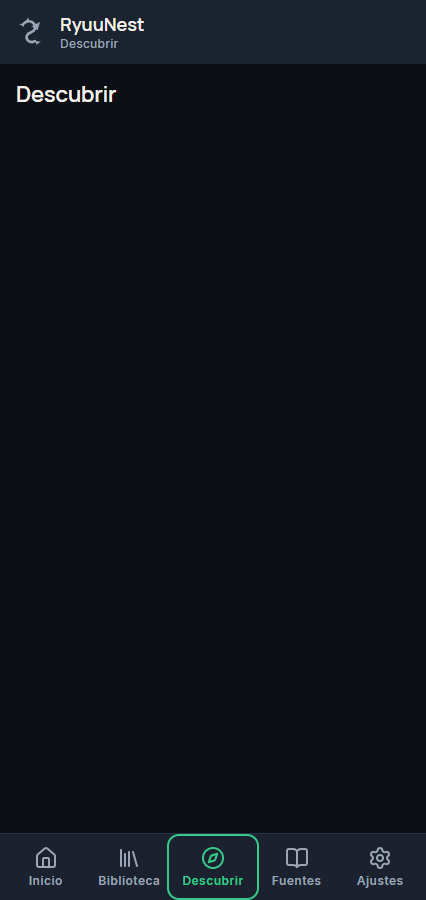
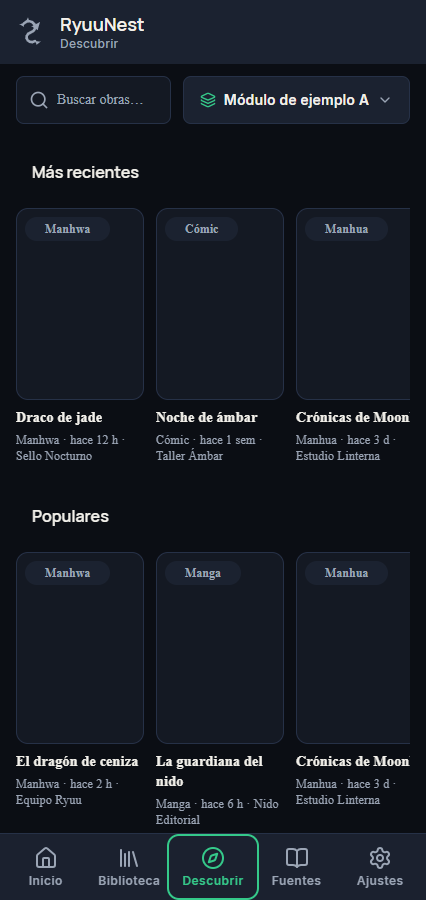
docs: convenio de marcadores en el plano, capturas base del shell y registros (F11b)

diff --git a/tasks/todo.md b/tasks/todo.md
@@ -237,16 +237,17 @@ Dep: P-A; T35 · M · `apps/mobile/src/{navigation,shell}/*`
 - [x] Etiquetas funcionales (SPEC §11.7); destino activo con `accent` (V1)
 - Verif: [x] Playwright navegando los 5 destinos en 5 anchos · [ ] 🧍 POCO F5 Pro (AC-12 pendiente; el bundle Android no sustituye esta verificación)
 
-### F11b Arreglar el e2e obsoleto del shell (`shell.cjs` y `home.cjs`) `[FE · Baja · N1]`
+### F11b Arreglar el e2e obsoleto del shell (`shell.cjs` y `home.cjs`) `[FE · Baja · N1]` ✅
 
 > Apuntada el 2026-10-26 (hallazgo en F14c y F15). `tests/e2e/shell.cjs` espera los testID `destination-*` del marco de F11, que van desapareciendo al sustituir cada marco por su pantalla real: `destination-home` se fue con F13, `destination-library` con F14c y `destination-discover` se irá con F15. `home.cjs` está roto por lo mismo desde F14c (espera `destination-library`). Quedan vivos solo `destination-sources`/`destination-settings`, y desaparecerán con F16/F20.
 
 Dep: F11; F13, F14c, F15 · S · `apps/mobile/tests/e2e/{shell.cjs,home.cjs}` + raíz de cada pantalla
 
-- [ ] Decisión del humano: **corregir** (recomendado) o eliminar. Si se corrige: esperas estables — URL + `app-shell` + pestaña seleccionada — o testID propio por pantalla (`screen-<id>` en la raíz, una línea cada una); los scripts no deben depender de marcadores de contenido transitorios
-- [ ] `home.cjs`: mismo criterio (su tramo de `reduced-motion` viaja a un destino estable, no a `destination-library`)
-- [ ] Regenerar las capturas base de `docs/capturasF11/` (los destinos con pantalla real ya muestran contenido, no el marco)
-- Verif: los cinco scripts e2e (`shell`, `home`, `library`, `discover`, `gallery-shell`) en verde, cero errores de consola y cero dominios externos · 🧍 POCO (de siempre)
+- [x] Decisión del humano (2026-10-27): **corregir**, no eliminar. Esperas estables: `screen-<id>` en la raíz de cada pantalla real (`HomeScreen`, `LibraryScreen`, `DiscoverScreen`) y `destination-<id>` en los marcos; `markers.cjs` (`destinationMarker`) une los dos y `tests/screens/destinationMarkers.test.ts` vigila el convenio para que la próxima pantalla (F16/F20) no vuelva a romper el script
+- [x] `home.cjs`: el tramo de `reduced-motion` pasa por el marcador estable (`destinationMarker("library")`)
+- [x] Capturas base de `docs/capturasF11/` regeneradas (426 y 1440; los destinos con pantalla real ya muestran contenido)
+- [x] Convenio escrito en `docs/screen-blueprint.md` (para F16/F20 y las pantallas nuevas)
+- Verif: [x] los cuatro scripts sobre el export estático (`shell`, `home`, `library`, `discover`) en verde, cero errores de consola y cero dominios externos · [x] `gallery-shell.cjs` sobre Metro · [ ] 🧍 POCO (de siempre)
 
 ### F13 Inicio `[FE · Intermedia · N3]` ✅ (pendiente Playwright + POCO)
 

diff --git a/MEMORY.md b/MEMORY.md
@@ -142,6 +142,13 @@ Las decisiones de arquitectura D-1 a D-13 están en `SPEC.md` §5.4. Las de proc
 
 ## 5. Bitácora de sesiones (la más reciente arriba)
 
+### 2026-10-27 · F11b: el e2e del shell deja de pudrirse (marcadores estables)
+
+- **Hecho:** rama `fix/F11b-e2e-shell-stable`, TDD con el e2e como prueba (RED: `shell.cjs` caía en `destination-home`): `markers.cjs` (`destinationMarker(id)` = `^(screen|destination)-<id>$`); `testID="screen-<id>"` en la raíz de `HomeScreen`, `LibraryScreen` y `DiscoverScreen` (renombrado desde `discover-screen`); `shell.cjs` y `home.cjs` esperan por el marcador (cinco anchors en el primero: 5×5 destinos, historial, recarga, teclado y `reduced-motion`); guard `tests/screens/destinationMarkers.test.ts` (la ruta de cada destino o es marco o su pantalla declara `screen-<id>`; ambos scripts usan `markers.cjs`) para que F16/F20 no repitan la avería. Convenio escrito en `docs/screen-blueprint.md`. Capturas base de `docs/capturasF11/` regeneradas con las pantallas reales.
+- **Sin decisiones nuevas:** implementa lo sugerido en la entrada de F11b (2026-10-26), que el humano aprobó.
+- **Verificación:** `shell.cjs`, `home.cjs`, `library.cjs` y `discover.cjs` en verde sobre el export (cero errores, cero externos); `gallery-shell.cjs` en verde sobre Metro; Vitest móvil 35 ficheros / **225 tests** (+2 del guard); lint y typecheck limpios. Fuera del alcance y revocados: los reprocesos accidentales de `capturasF13/home-*.png` y `capturasF11/galeria-shell-error.png`.
+- **Siguiente paso:** F16 (Fuentes) es la que ya usa el convenio (su pantalla nace con `screen-sources`).
+
 ### 2026-10-26 · F11b: tarea para el e2e obsoleto del shell
 
 - **Hecho:** apuntada **F11b** en `tasks/todo.md` (rama `docs/F11b-e2e-shell-obsoleto`; solo `todo.md` y esta entrada). Sin código: el arreglo espera la decisión del humano (corregir vs eliminar).

diff --git a/docs/screen-blueprint.md b/docs/screen-blueprint.md
@@ -8,6 +8,7 @@
 - `apps/mobile/src/screens/<nombre>/<nombre>Fixtures.ts`: tipos de `data`, estado vacío (`EMPTY_*`) y datos de ejemplo (`SAMPLE_*`, series inventadas, D1 a D5).
 - Pantalla con datos reales: además `<nombre>Data.ts` (núcleo → `data`) y `use<Nombre>Data.ts` (carga/error).
 - `apps/mobile/src/app/(tabs)/<nombre>.tsx`: la ruta de Expo Router; solo conecta datos y pantalla. El marco (cabecera y barra) lo da `apps/mobile/src/navigation/ShellNavigator.tsx`.
+- Marcador estable (F11b): la raíz de cada pantalla destino declara `testID="screen-<id>"`; el marco de F11 usa `destination-<id>`. `apps/mobile/tests/e2e/markers.cjs` los espera a los dos y `apps/mobile/tests/screens/destinationMarkers.test.ts` vigila el convenio: sustituir un marco por su pantalla no debe romper `shell.cjs`.
 - Piezas repetibles van a `apps/mobile/src/components/` (`Nombre.tsx` + `nombreStyles.ts` puro) y se registran en `apps/mobile/src/gallery/registry.ts`.
 
 ## Patrón
